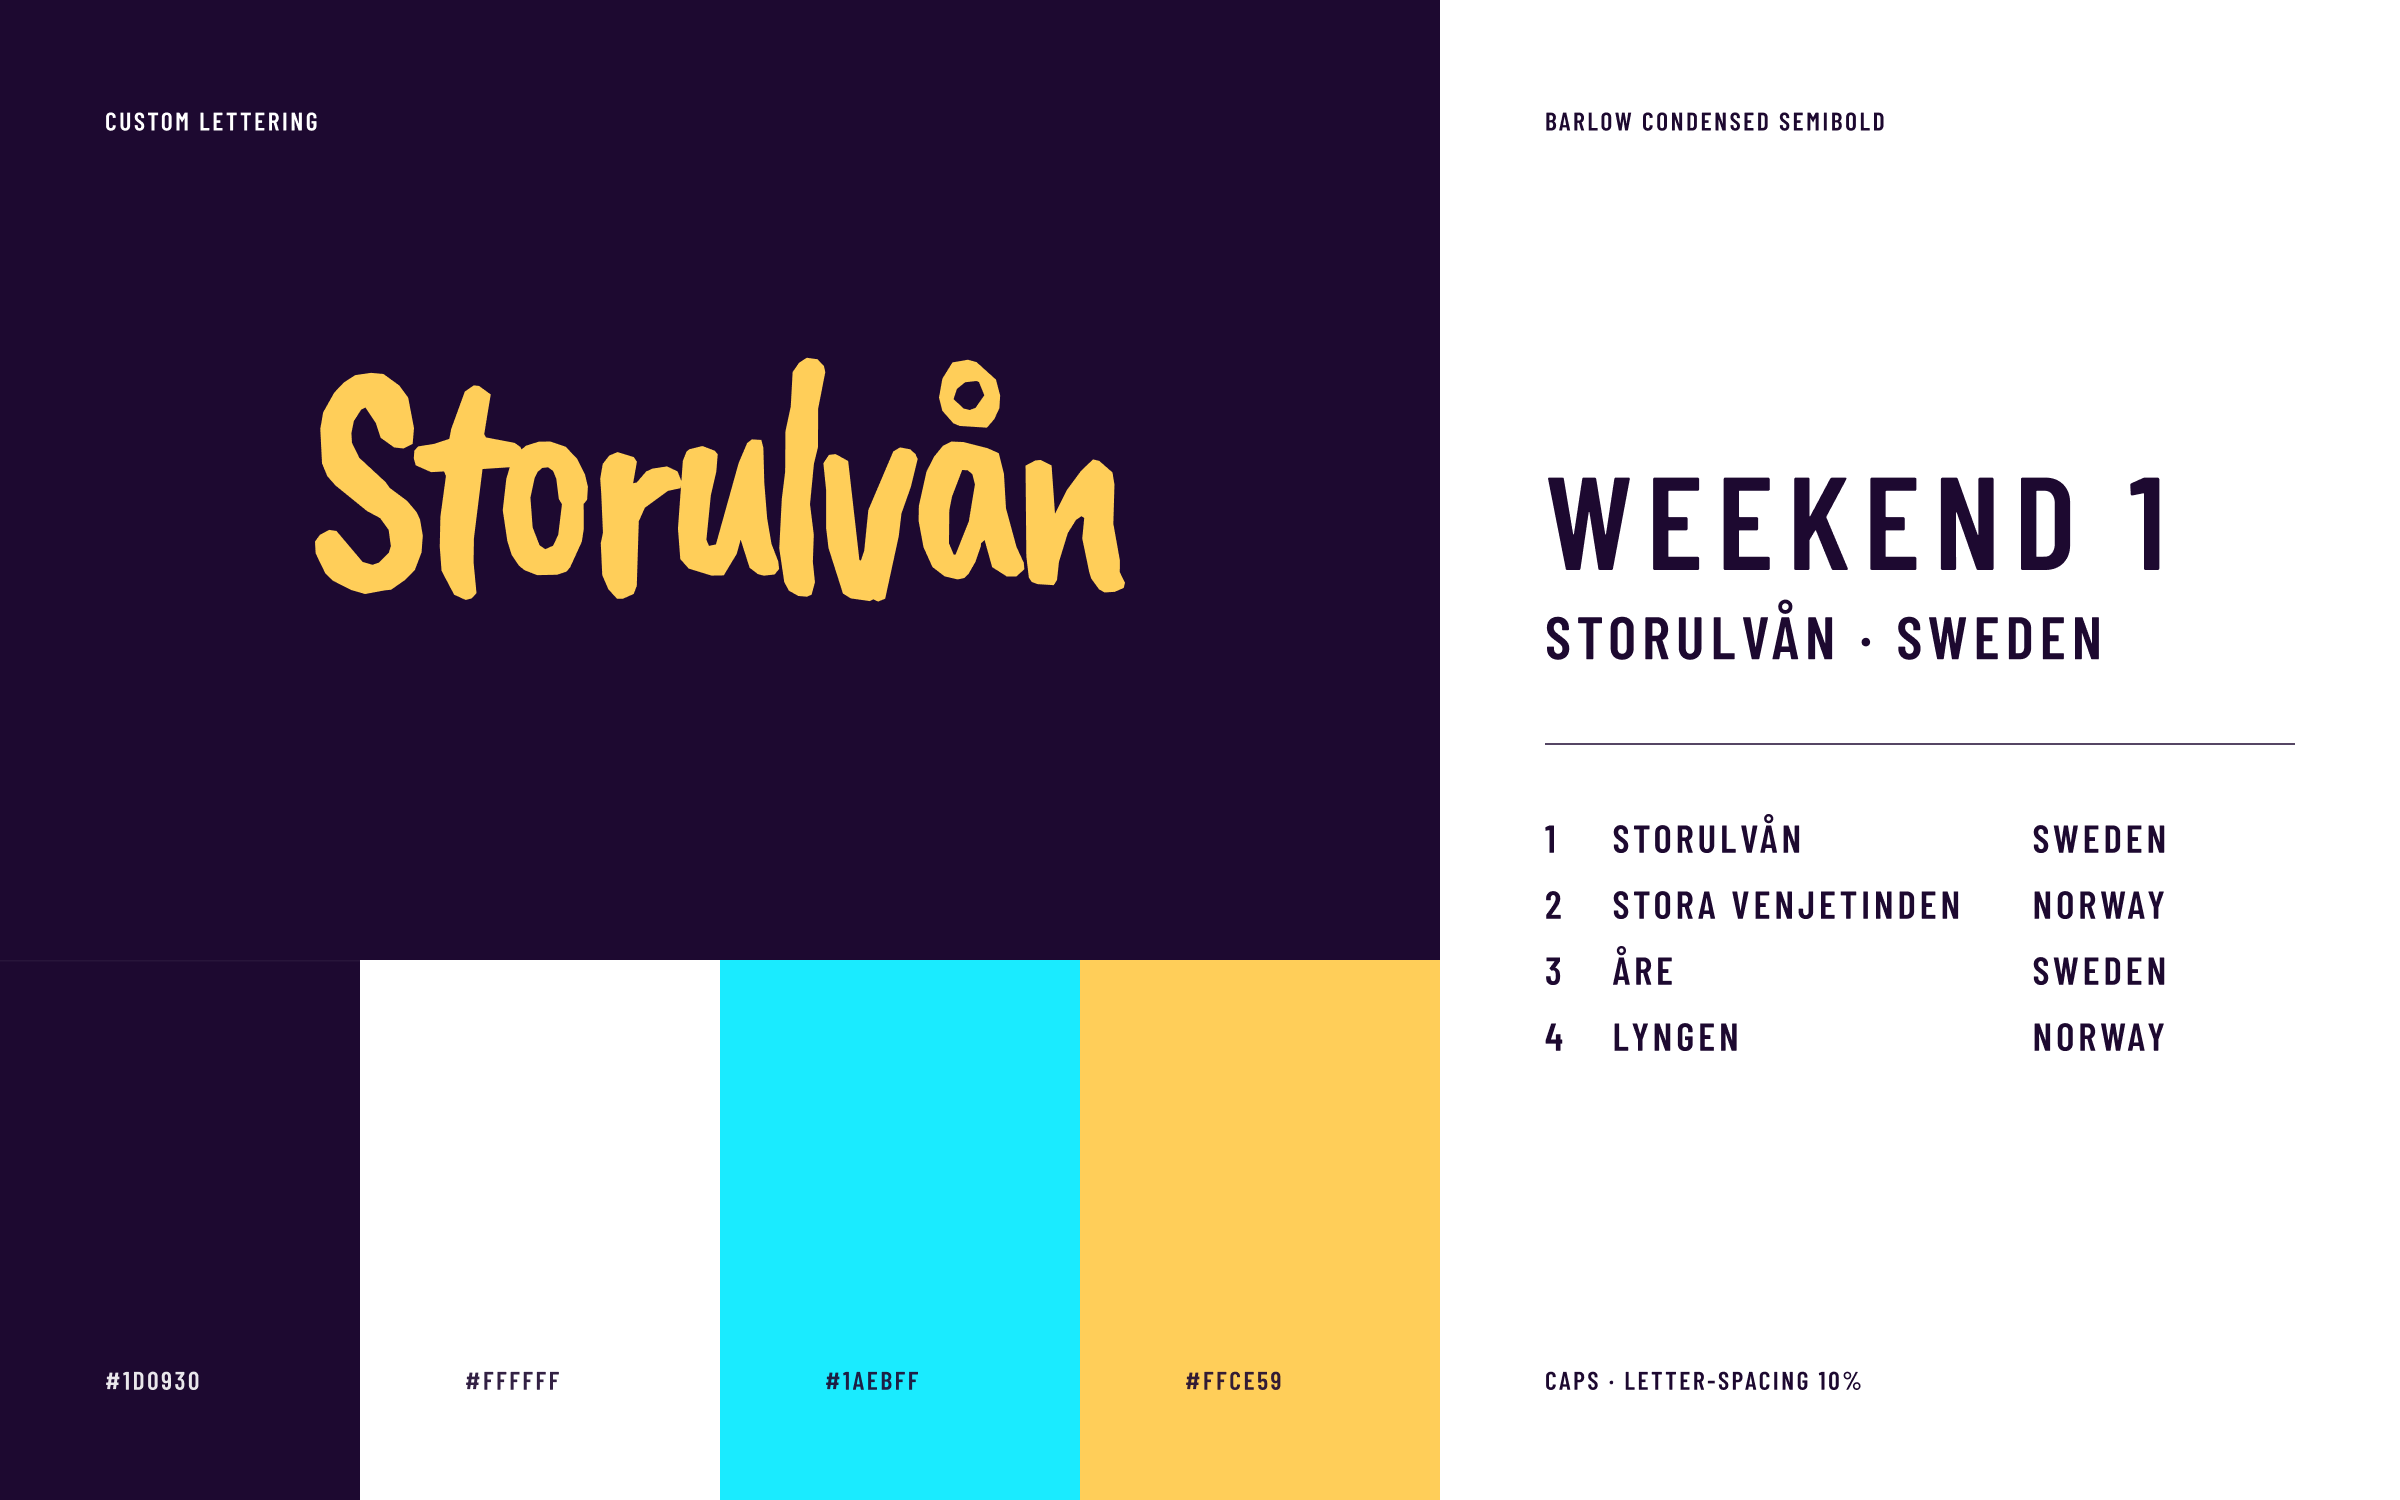
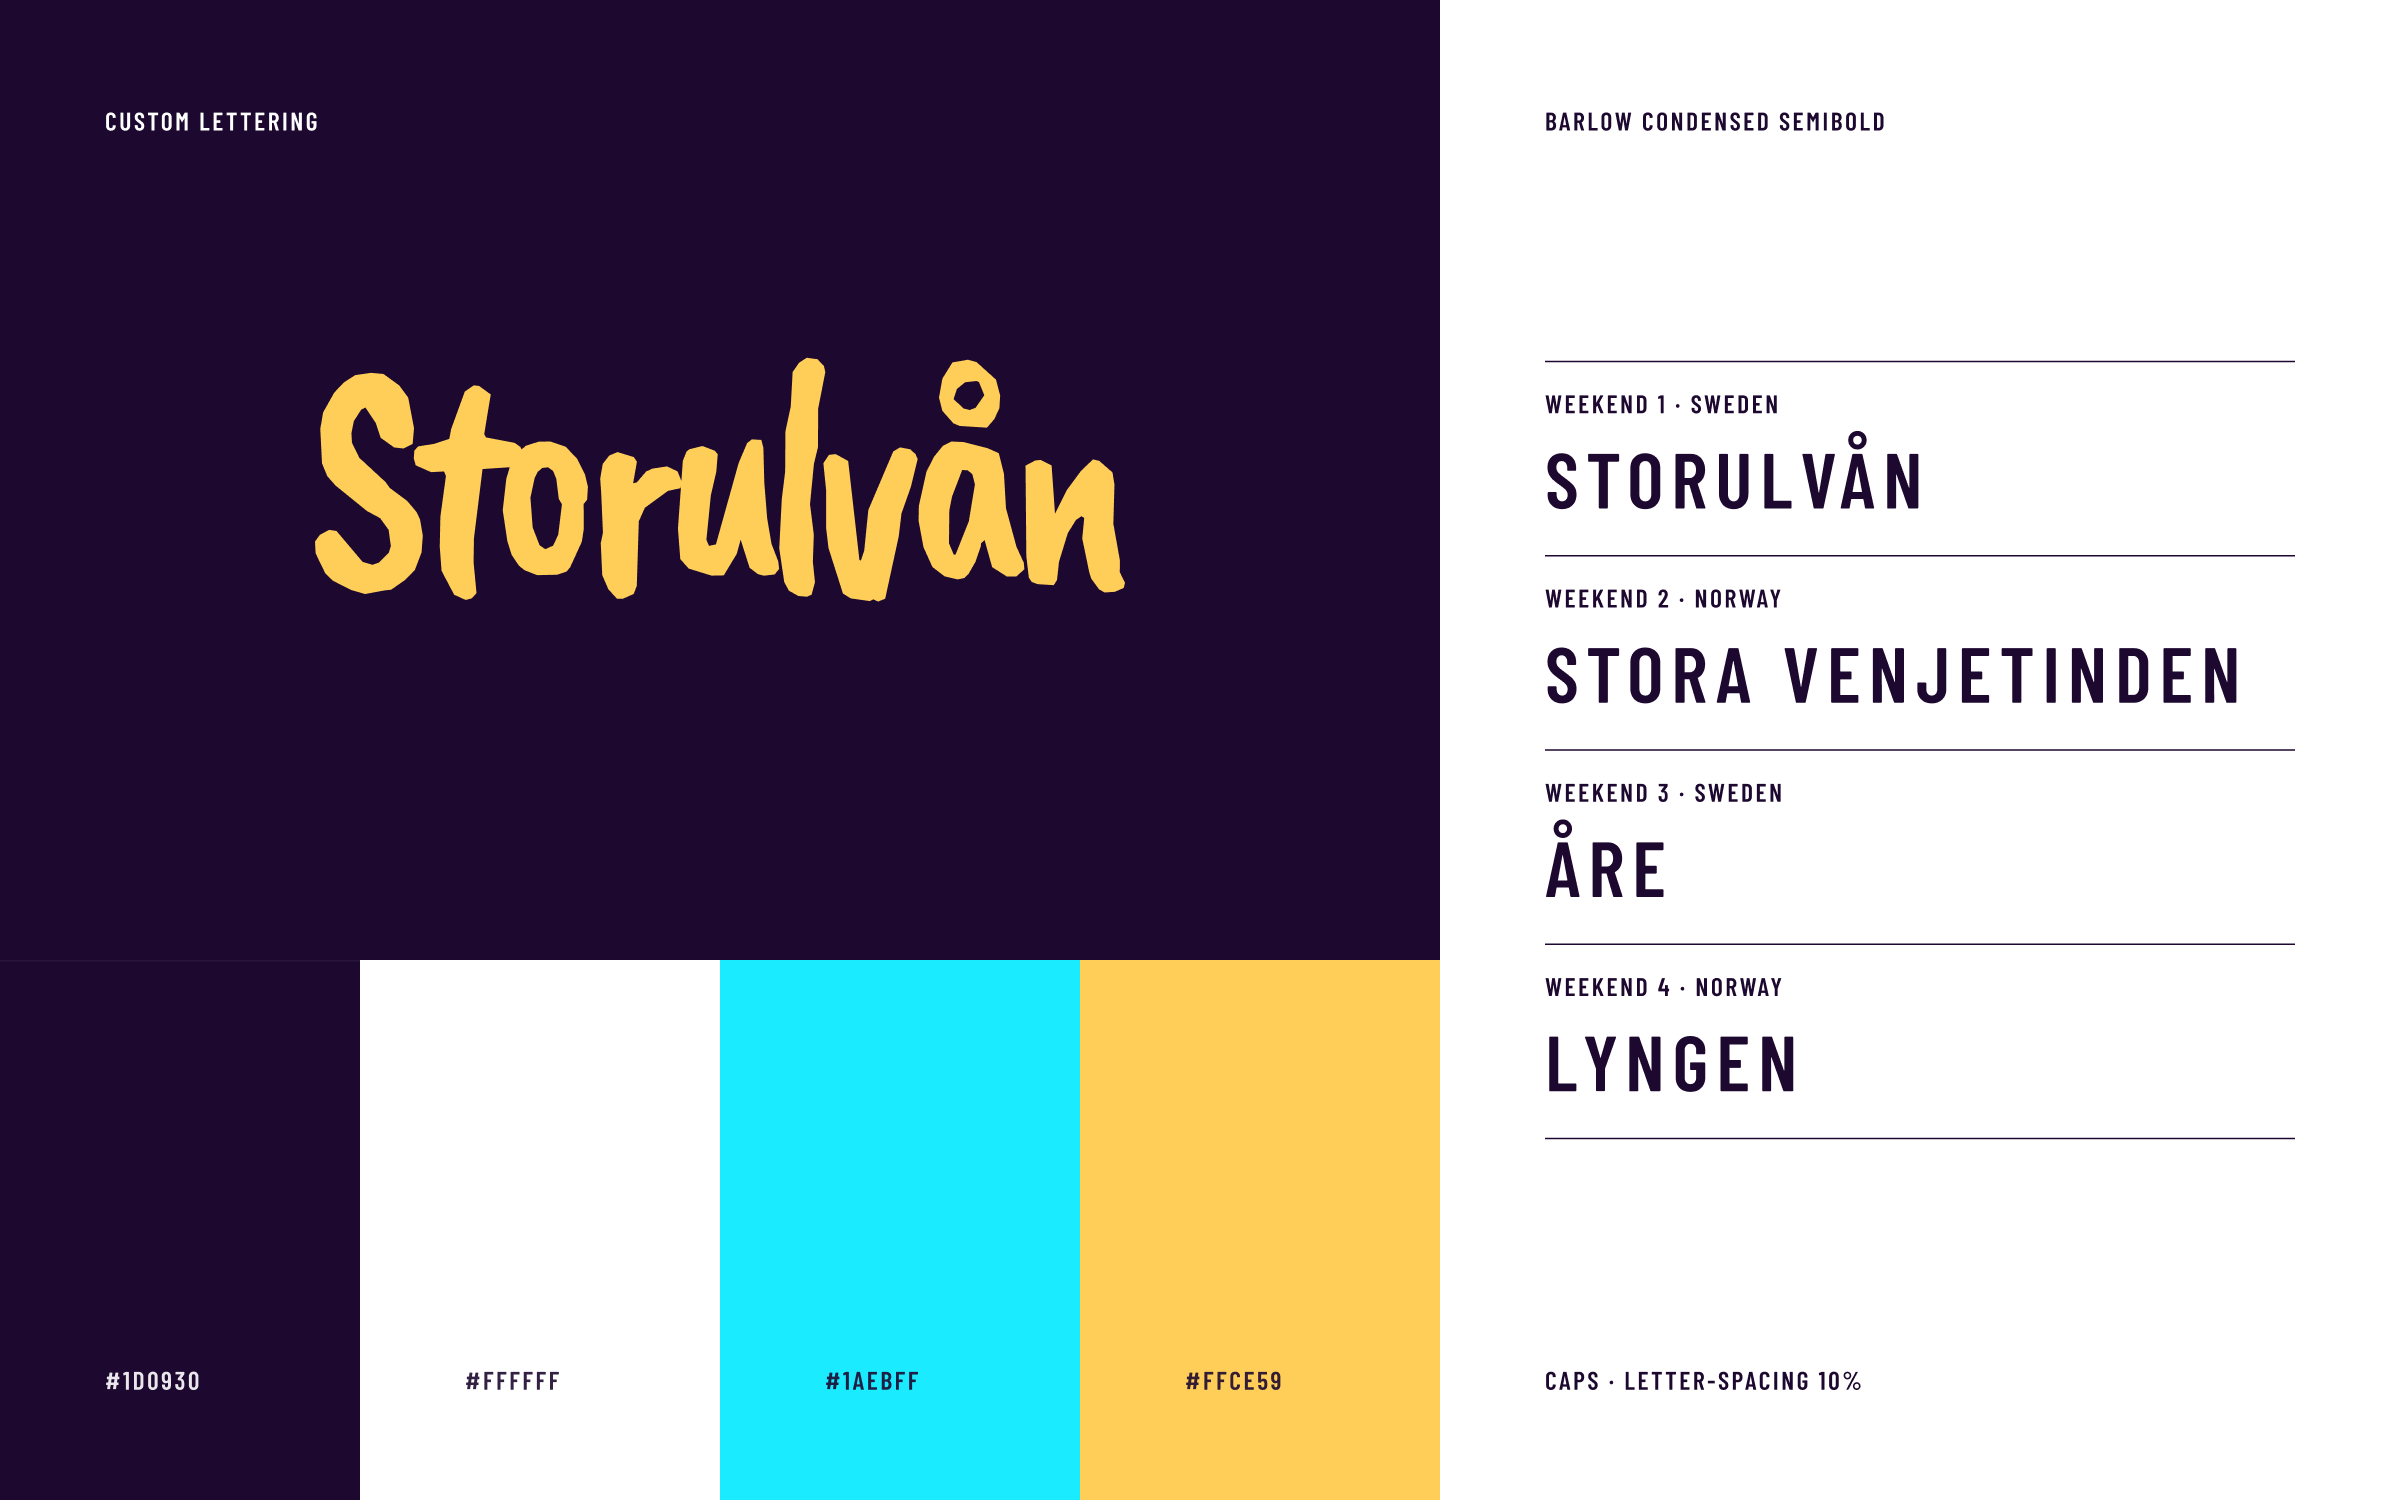
Weekend Warriors: chapter rows in the identity image
Claude-Session: https://claude.ai/code/session_01T8AAM769pNUjzneeyTgJVR

diff --git a/docs/weekend-warriors/index.html b/docs/weekend-warriors/index.html
@@ -70,7 +70,7 @@
 </section>
 
 <div class="c-05b86e">
-<div data-rv="1" data-lb="1" tabindex="0" role="button" aria-label="Enlarge image" class="rv c-clip"><img class="zm" src="../assets/ww-identity-1400.webp?v=0a61970f" srcset="../assets/ww-identity-800.webp?v=b41d3c9e 800w, ../assets/ww-identity-1400.webp?v=0a61970f 1400w, ../assets/ww-identity.webp?v=7970d844 2400w" sizes="(min-width: 1440px) 1200px, 92vw" data-lbsrc="../assets/ww-identity.webp?v=7970d844" fetchpriority="high" decoding="async" alt="The hand-lettered chapter title Storulvån in yellow on dark purple, above the palette of dark purple, white, cyan and yellow, next to the four chapters set in Barlow Condensed" width="2400" height="1500"></div>
+<div data-rv="1" data-lb="1" tabindex="0" role="button" aria-label="Enlarge image" class="rv c-clip"><img class="zm" src="../assets/ww-identity-1400.webp?v=8460034e" srcset="../assets/ww-identity-800.webp?v=17761657 800w, ../assets/ww-identity-1400.webp?v=8460034e 1400w, ../assets/ww-identity.webp?v=f9207f23 2400w" sizes="(min-width: 1440px) 1200px, 92vw" data-lbsrc="../assets/ww-identity.webp?v=f9207f23" fetchpriority="high" decoding="async" alt="The hand-lettered chapter title Storulvån in yellow on dark purple, above the palette of dark purple, white, cyan and yellow, next to the four chapters set in Barlow Condensed" width="2400" height="1500"></div>
 <div data-rv="2" data-lb="1" tabindex="0" role="button" aria-label="Enlarge image" class="rv c-clip"><div class="zm cal"><img src="../assets/ww-calendar-1400.webp?v=369f0d28" srcset="../assets/ww-calendar-800.webp?v=a25394d1 800w, ../assets/ww-calendar-1400.webp?v=369f0d28 1400w, ../assets/ww-calendar.webp?v=6fdddc9b 2400w" sizes="(min-width: 1440px) 1200px, 92vw" loading="lazy" decoding="async" data-lbsrc="../assets/ww-calendar-full.webp?v=f2851784" alt="Four skiers on a snowy ridge under the wordmark and a week calendar where Monday to Friday are crossed out and Saturday and Sunday show a skier" width="2400" height="1500"><div aria-hidden="true" class="mks"><svg class="mk x c-a84d3f" viewBox="0 0 32.82 32.82"><path d="M27.35 32.82 16.41 21.88 5.47 32.82 0 27.35l10.94-10.94L0 5.47 5.47 0l10.94 10.94L27.35 0l5.47 5.47-10.94 10.94 10.94 10.94z"/></svg><svg class="mk x c-4c1ccc" viewBox="0 0 32.82 32.82"><path d="M27.35 32.82 16.41 21.88 5.47 32.82 0 27.35l10.94-10.94L0 5.47 5.47 0l10.94 10.94L27.35 0l5.47 5.47-10.94 10.94 10.94 10.94z"/></svg><svg class="mk x c-1012cb" viewBox="0 0 32.82 32.82"><path d="M27.35 32.82 16.41 21.88 5.47 32.82 0 27.35l10.94-10.94L0 5.47 5.47 0l10.94 10.94L27.35 0l5.47 5.47-10.94 10.94 10.94 10.94z"/></svg><svg class="mk x c-6e73de" viewBox="0 0 32.82 32.82"><path d="M27.35 32.82 16.41 21.88 5.47 32.82 0 27.35l10.94-10.94L0 5.47 5.47 0l10.94 10.94L27.35 0l5.47 5.47-10.94 10.94 10.94 10.94z"/></svg><svg class="mk x c-4a1479" viewBox="0 0 32.82 32.82"><path d="M27.35 32.82 16.41 21.88 5.47 32.82 0 27.35l10.94-10.94L0 5.47 5.47 0l10.94 10.94L27.35 0l5.47 5.47-10.94 10.94 10.94 10.94z"/></svg><svg class="mk sk c-b07650" viewBox="0 0 160 160"><image href="../assets/ww-skier.png?v=4b0fe100" width="160" height="160"></image></svg><svg class="mk sk c-658f2b" viewBox="0 0 160 160"><image href="../assets/ww-skier.png?v=4b0fe100" width="160" height="160"></image></svg></div></div></div>
 <div data-rv="3" data-lb="1" tabindex="0" role="button" aria-label="Enlarge film" class="rv c-clip"><video class="zm" data-vid="1" src="../assets/ww-chapter.mp4?v=0569e0cd" poster="../assets/ww-chapter-poster.jpg?v=b5629c20" width="1920" height="1200" muted loop playsinline preload="metadata" aria-label="The chapter title Weekend 2, Stora Venjetinden, Norway, writing itself over snowy peaks and clouds"></video></div>
 </div>

diff --git a/site/build.py b/site/build.py
@@ -29,7 +29,7 @@ ASSETS = {
     "3bca89cef68a116650a6c5ef6770cb4f": "tink-icons.jpg", "c1f94b98ab6d53cafc91e170a44835eb": "tink-dot-a.png",
     "f7b58a42b01e4846ca3732440ee7e58e": "tink-dot-b.png", "700febebcb68be373cda9b187586076e": "tink-onboarding.jpg", "4f6ed7b8c64d933afb03fb554d2835aa": "tink-onboarding.jpg",
     "1985dbdba6e3530443f5df8e166f4dcd": "tink-screens.jpg", "8b01cacb59ff02a59f0974ee3934b25e": "tink-screens.jpg", "ac8a5f15eb231d84428fc1641a1aa236": "tink-dark.jpg",
-    "bbdb59b438497957919c29f42e5a0686": "ww-identity.png", "efab65d4d433ed4ba4f636274f9a9e99": "ww-calendar.jpg",
+    "1d192f727744a75078c3b2c94dba8f4a": "ww-identity.png", "efab65d4d433ed4ba4f636274f9a9e99": "ww-calendar.jpg",
     "d7569c8d5cc400fd7471c27a4c2b9144": "ww-calendar-full.jpg", "dd36df8f9b4a2f8280afd473ea40f9b3": "ww-skier.png",
     "2788faab4aa5f42e2f2ca72c1315c161": "ww-calendar.jpg", "23288ad0ee329575c8589474e7c30676": "ww-calendar-full.jpg",
     "3b0aba6df729159ddd92d895620fe94c": "ww-chapter.mp4", "27f8f596ff1426df0556b45195ddebe2": "ww-chapter-poster.jpg",
